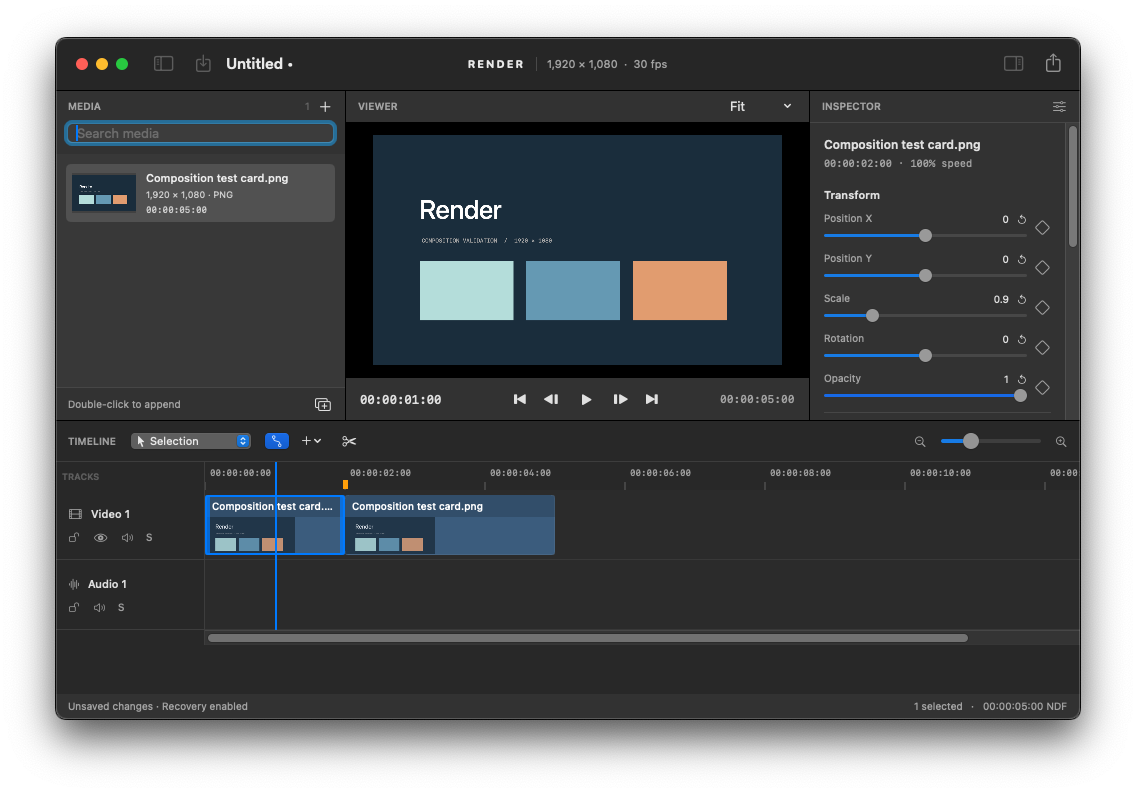
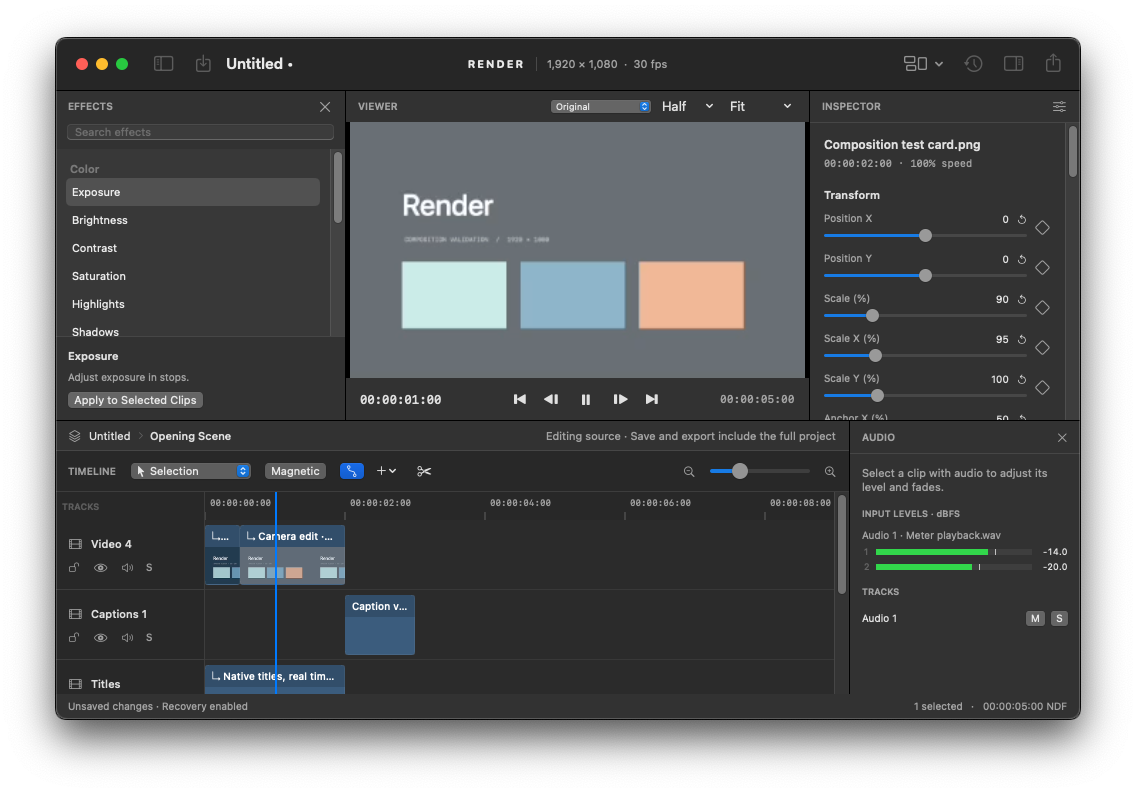
docs: record editor capabilities and remaining production work

diff --git a/docs/STATUS.md b/docs/STATUS.md
@@ -1,0 +1,33 @@
+# Implementation status
+
+This is the development status for 0.22.0. A published DMG means that milestone passed its automated release gates; it does not mean Render is a production-equivalent replacement for an established editor.
+
+## Implemented editing path
+
+- Native SwiftUI/AppKit workspace with resizable panels, independent browsers/audio controls, workspace presets, fullscreen, and preview-resolution choices.
+- Reference-based projects, atomic writes, recent projects, recovery snapshots, relinking, schema migration, focused-field save commits, and document-wide undo/redo.
+- Async metadata, thumbnails, filmstrips, waveforms, bounded caches and background proxy/optimized generation. Final export resolves originals.
+- Multiple video/audio tracks, selection, horizontal move, trim, split, clipboard, insert/overwrite, ripple operations, locks, visibility, mute/solo, snapping, markers, range editing and timeline virtualization.
+- Optional primary storyline, gaps, connected clips and magnetic reconciliation. Selection, blade, trim, ripple, roll, slip, slide, range and zoom tools.
+- Shared preview/export compositor: transforms, crop, flips, blend modes, stackable image/color effects, chroma key and rectangle/ellipse/polygon masks. Reusable keyframes with linear/eased/hold interpolation.
+- Titles and captions, SRT import/export, static clip speeds, source-handle transitions, volume animation, audio fades, reviewed waveform synchronization, and decoded-input peak/RMS meters.
+- Clip EQ, compressor, sample peak limiter and noise gate with ordered stacks. Source-continuous blade edits retain processor state.
+- Compound creation, source navigation/editing, nested rendering/audio, shared sources, root persistence and restricted lossless break-apart.
+- Multicam source definitions, manual offsets, paged angle previews and undoable angle cuts. Reverse viewer fallback when native reverse is unavailable.
+- H.264/HEVC/ProRes export, resolution/frame-rate controls, H.264/HEVC bitrate presets/custom bitrate, progress/cancellation and staged publication.
+
+## Remaining engineering work
+
+1. Audio routing: proper mono/stereo pan and channel configuration, summed master/compound buses and meters, bus processing, processor automation and spectral noise reduction.
+2. Advanced retiming: reverse clips, freeze frames, speed ramps/curves and matching time-stretch/export behavior. Reverse viewer transport does not implement reverse clip export.
+3. Multicam: fixed master-audio routing, media timecode synchronization, drift correction, and uninterrupted live switching. Current angle cuts pause for composition rebuilding.
+4. Editing refinements: vertical clip dragging between lanes, source in/out browsing, more extensive keyboard customization, and long-session interaction testing.
+5. Extensibility: a stable custom Metal shader/plugin ABI, custom keyframe curves, and future tracking/transcription adapters. Existing modular source architecture does not imply a shipped third-party plugin system.
+6. Qualification: physical M-series CPU/GPU/memory/disk profiling, long-form projects, device audio latency, subjective listening, broader media/codec fixtures, manual recovery/storage/permission failure drills, and accessibility/light-mode/multiple-display review.
+7. Distribution: Developer ID signing and notarization require the owner's Apple developer credentials. Current packages are explicitly ad-hoc signed development prereleases.
+
+## Validation evidence and limits
+
+The macOS ARM64 CI builds Debug and Release, runs core and native-media integration tests, runs C audio DSP sanitizers, compares the core editing benchmark, builds and verifies a DMG, installs its app, launches an editing smoke workflow, and captures the workspace. Release jobs repeat native checks before publishing the DMG and checksum. Tests inspect real decoded pixels/audio, not just project metadata.
+
+The CI host is a macOS VM. These checks cannot establish physical M1–M5 performance, all supported codec/device behavior, subjective editing quality, or production reliability by themselves. See MANUAL_TESTS.md and the versioned release notes for the precise milestones and limitations.

diff --git a/README.md b/README.md
@@ -36,7 +36,7 @@ open dist/Render.app
 
 The package script builds an ARM64 Release bundle, generates the icon, ad-hoc signs it, creates and verifies the DMG, checks an installed copy, and runs a launch smoke check. GitHub Actions runs core tests plus synthetic-media preview/export integration tests. DMGs are release assets, never committed binaries.
 
-[Architecture and milestones](docs/DEVELOPMENT.md) · [Manual testing and limitations](docs/MANUAL_TESTS.md) · [Installation](docs/INSTALL.md)
+[Implementation status](docs/STATUS.md) · [Architecture and milestones](docs/DEVELOPMENT.md) · [Manual testing and limitations](docs/MANUAL_TESTS.md) · [Installation](docs/INSTALL.md)
 
 ## Release status
 
